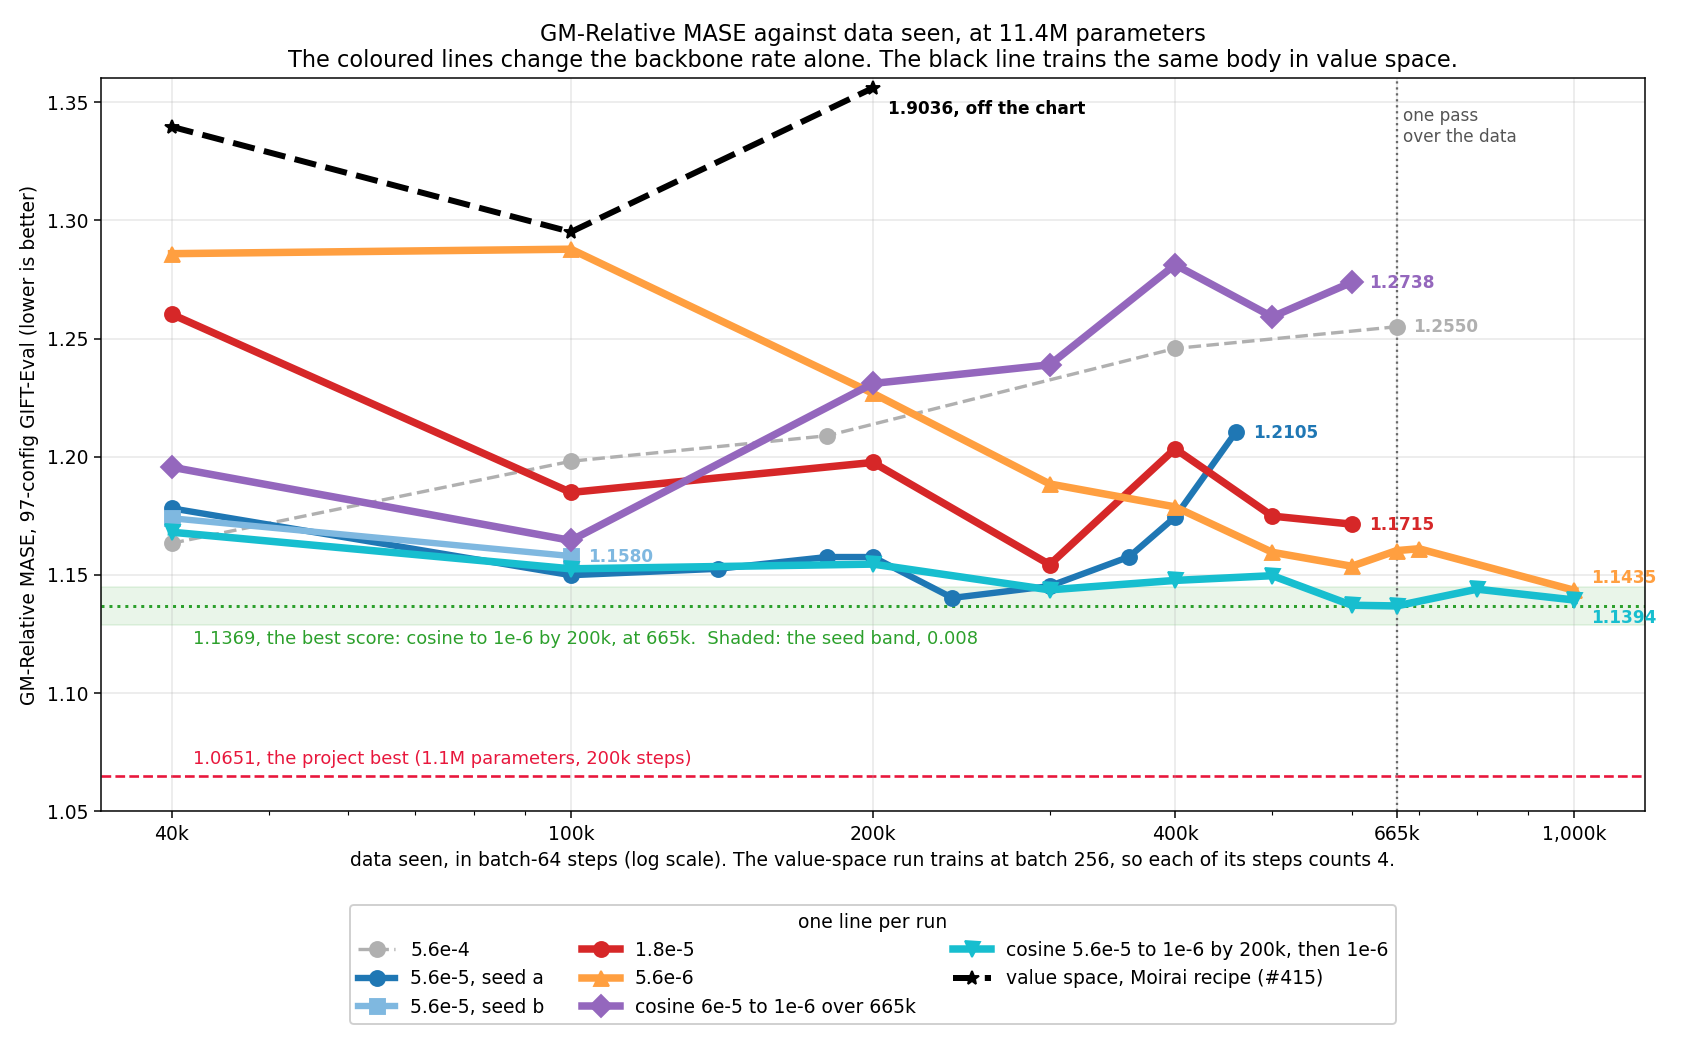
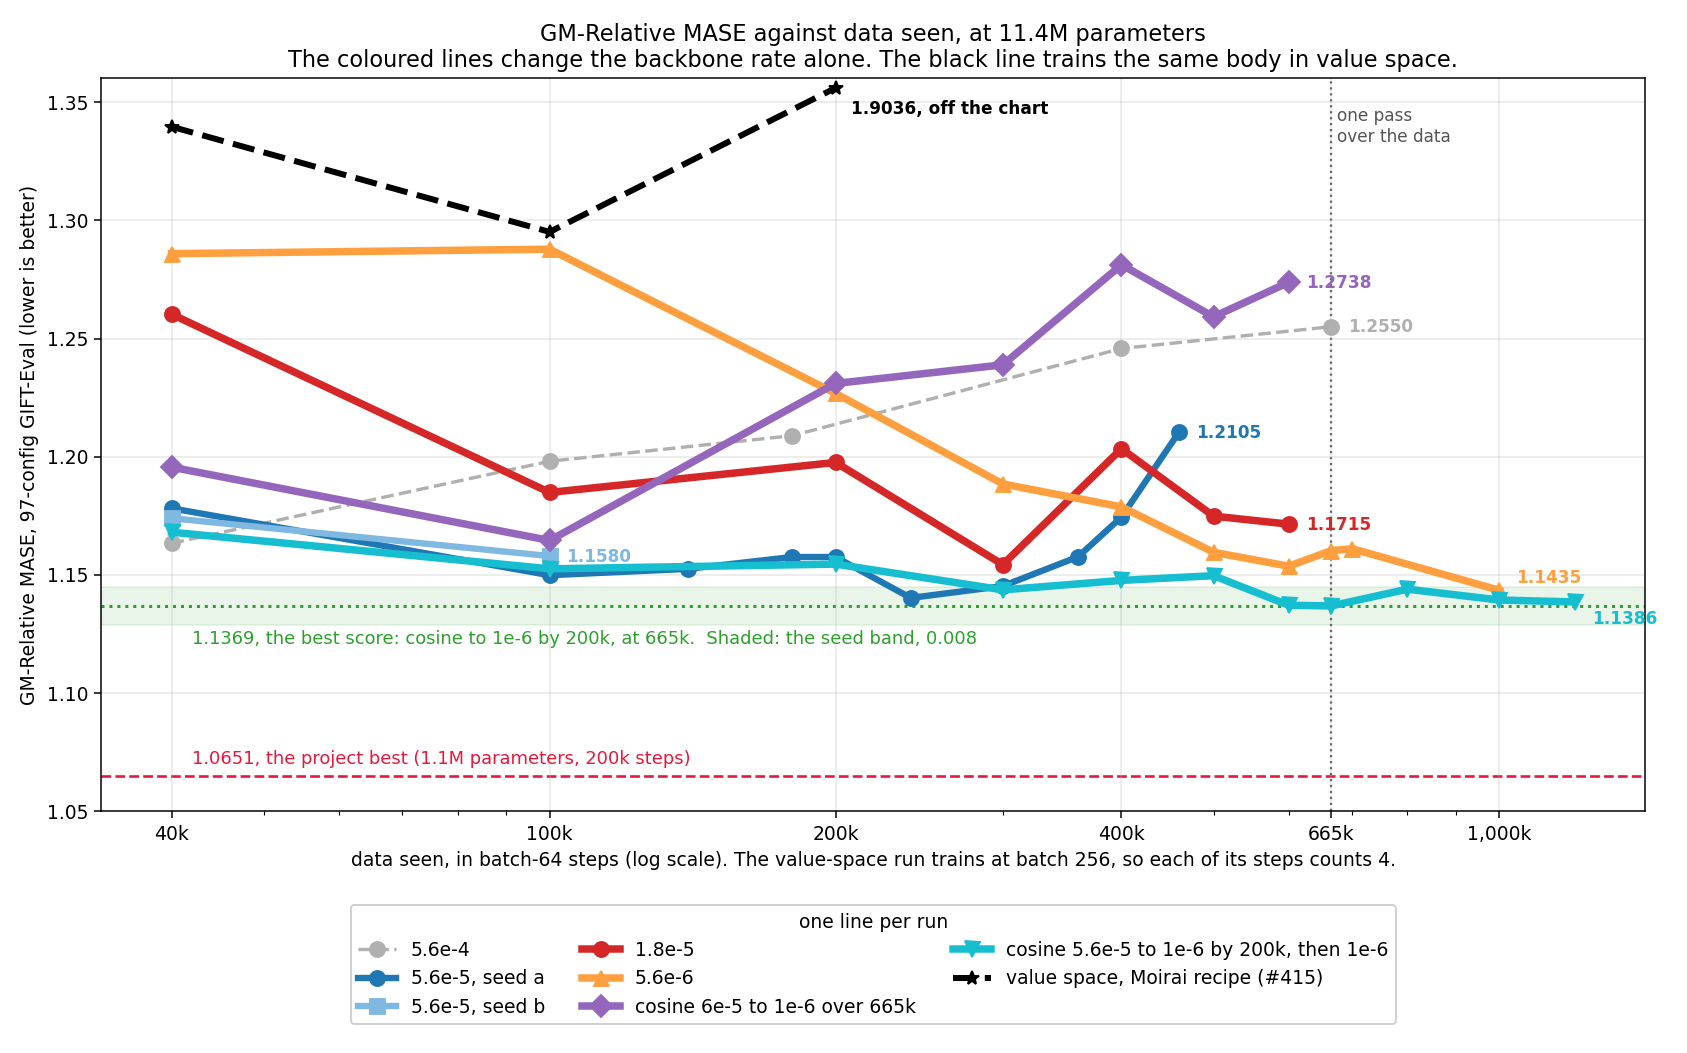
exp(#414): the cosine arm scores 1.1386 at 1,200,000 steps

diff --git a/reports/2026-09-06_moirai_small_size/moirai_small_size.md b/reports/2026-09-06_moirai_small_size/moirai_small_size.md
@@ -35,7 +35,8 @@ rate, the later the turn: 40,000 steps at 5.6e-4, 240,000 at 5.6e-5 and
 
 The cosine anneal to 1e-6 by step 200,000 has no turn in one pass. Its lowest
 score, 1.1369, is its 665,000-step score. A second pass at 1e-6 stays inside
-the seed band: 1.1440 at 800,000 and 1.1394 at 1,000,000. The lowest scores of
+the seed band: 1.1440 at 800,000, 1.1394 at 1,000,000 and 1.1386 at
+1,200,000. The lowest scores of
 the three best runs (1.1369, 1.1403 and 1.1435) also lie inside one band. So
 the anneal removes the climb, and its floor is the floor of the constant rates.
 
@@ -99,7 +100,7 @@ counts its steps at batch 256.
 | 1.8e-5 | 1.1544 | 300,000 | 1.1715 | 600,000 |
 | 5.6e-6 | 1.1435 | 1,000,000 | 1.1435 | 1,000,000 |
 | cosine 6e-5 to 1e-6 over 665,000 | 1.1646 | 100,000 | 1.2738 | 600,000 |
-| cosine 5.6e-5 to 1e-6 by 200,000, then 1e-6 | 1.1369 | 665,000 | 1.1394 | 1,000,000 |
+| cosine 5.6e-5 to 1e-6 by 200,000, then 1e-6 | 1.1369 | 665,000 | 1.1386 | 1,200,000 |
 | value space, Moirai recipe | 1.2951 | 25,000 | 1.9036 | 50,000 |
 
 `results/gm_trajectories.tsv` holds every scored stop of the card, one row per
